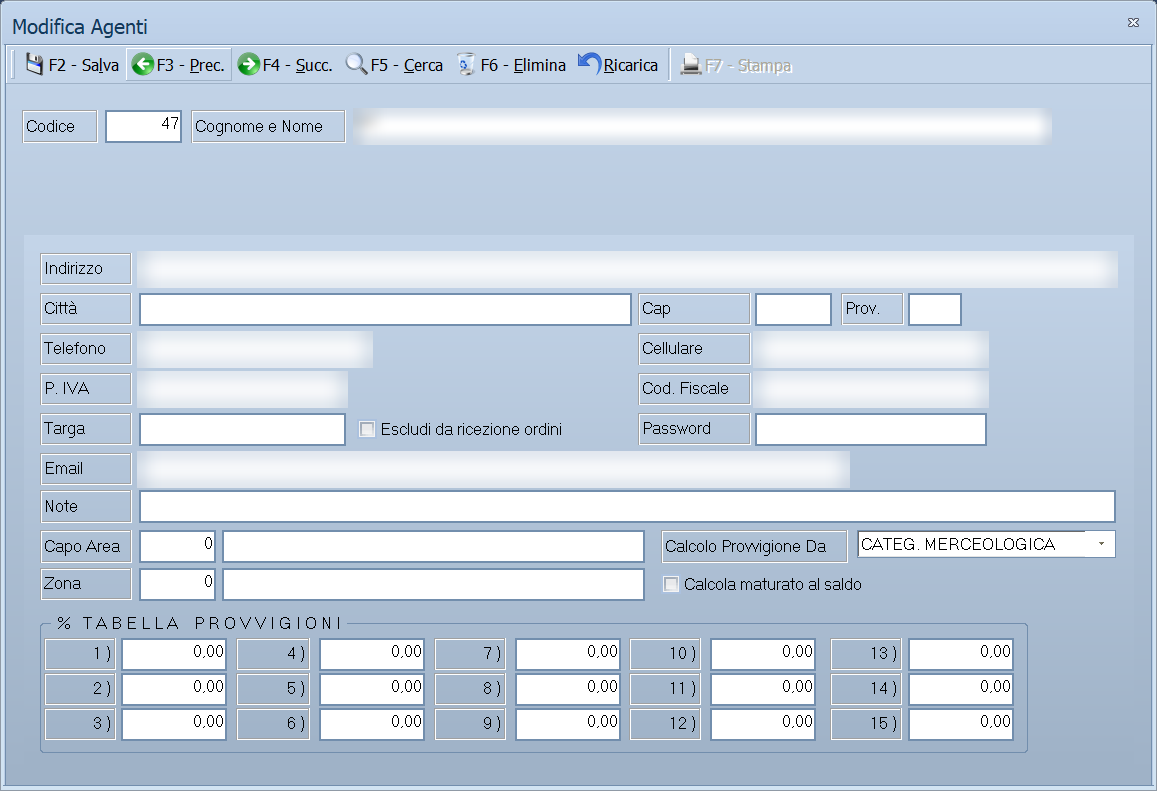
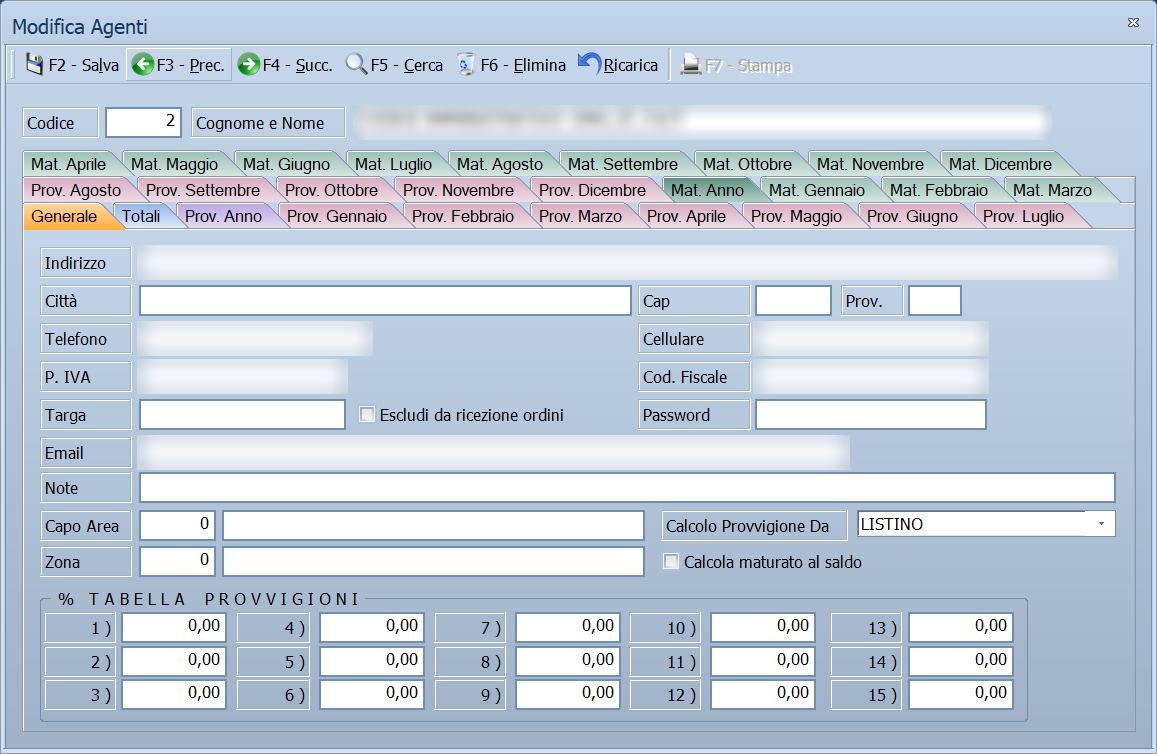
Agenti e capi area: elenchi, schermate col font nuovo e schede del maturato
- Nuove sezioni con schermata "L'elenco degli agenti" e "L'elenco dei capi
  area" (colonne, ricerca per codice e descrizione, F2/F3/F4, da dove si
  aprono): sono le pagine che apre F1 dalle due finestre di ricerca.
- Rifatte col font nuovo le schermate di Anagrafica agenti (con la striscia
  delle schede), Capi area e Stampa agenti; nomi, recapiti e descrizioni
  degli agenti coperti.
- Anagrafica agenti: aggiunte le schede Mat. Gennaio ... Mat. Dicembre e la
  nota che in inserimento compaiono solo Generale e Totali.

Changed region(s): [[0.0, 0.0305, 0.9957, 0.9761]]

diff --git a/docs/moduli/anagrafiche/anagrafica-agenti.md b/docs/moduli/anagrafiche/anagrafica-agenti.md
@@ -60,6 +60,34 @@ Le schede sono queste:
 | **Prov. Anno** | Le provvigioni di tutto l'anno, documento per documento. |
 | **Prov. Gennaio** … **Prov. Dicembre** | Le stesse provvigioni, un mese per scheda. |
 | **Mat. Anno** | Il maturato dell'anno: quanto è stato incassato e quanta provvigione ne consegue. |
+| **Mat. Gennaio** … **Mat. Dicembre** | Lo stesso maturato, un mese per scheda. |
+
+Inserendo un agente nuovo compaiono solo **Generale** e **Totali**: le schede
+delle provvigioni e del maturato si riempiono con i documenti, e un agente
+appena creato non ne ha ancora.
+
+### L'elenco degli agenti
+
+![Elenco degli agenti](../../assets/img/anagrafiche/agenti-elenco.png)
+
+Premendo **F5 - Cerca** si apre la finestra **Cerca Agenti**: l'elenco degli
+agenti, ordinato per descrizione, con le colonne **Codice** e **Descrizione**.
+La stessa finestra si apre ovunque si scelga un agente: nell'anagrafica dei
+clienti, nei documenti di vendita, nelle scadenze, nelle provvigioni e nelle
+stampe che filtrano per agente.
+
+In alto ci sono due campi di ricerca:
+
+- **Codice** — scrivi il codice e passa al campo successivo: l'elenco si
+  riordina per codice e si posiziona su quello digitato o, se non esiste, su
+  quello che lo precede;
+- **Descrizione** — scrivi l'inizio del nominativo: l'elenco mostra solo gli
+  agenti che cominciano così. Svuota il campo per tornare all'elenco completo.
+
+Dalla barra dei comandi: **F2 - OK** sceglie la riga selezionata (vale anche
+il doppio clic), **F3 - Nuovo** apre la maschera per aggiungere un agente,
+**F4 - Modifica** apre l'agente selezionato per correggerlo. Tornando
+all'elenco, questo si aggiorna.
 
 ## Campi
 

diff --git a/docs/moduli/anagrafiche/capi-area.md b/docs/moduli/anagrafiche/capi-area.md
@@ -39,6 +39,30 @@ da quella dell'agente.
 È una maschera a finestra unica, senza schede: la barra dei comandi e i dati
 anagrafici del capo area.
 
+### L'elenco dei capi area
+
+![Elenco dei capi area](../../assets/img/anagrafiche/capi-area-elenco.png)
+
+Premendo **F5 - Cerca** si apre la finestra **Cerca Capi Area**: l'elenco dei
+capi area, ordinato per descrizione, con le colonne **Codice** e
+**Descrizione**. La stessa finestra si apre quando si sceglie il capo area
+nella scheda **Generale** dell'[anagrafica agenti](anagrafica-agenti.md),
+nella stampa degli agenti e nelle provvigioni.
+
+In alto ci sono due campi di ricerca:
+
+- **Codice** — scrivi il codice e passa al campo successivo: l'elenco si
+  riordina per codice e si posiziona su quello digitato o, se non esiste, su
+  quello che lo precede;
+- **Descrizione** — scrivi l'inizio della descrizione: l'elenco mostra solo i
+  capi area che cominciano così. Svuota il campo per tornare all'elenco
+  completo.
+
+Dalla barra dei comandi: **F2 - OK** sceglie la riga selezionata (vale anche
+il doppio clic), **F3 - Nuovo** apre la maschera per aggiungere un capo area,
+**F4 - Modifica** apre quello selezionato per correggerlo. Tornando
+all'elenco, questo si aggiorna.
+
 ## Campi
 
 | Campo | Obbl. | Descrizione | Valori ammessi |
